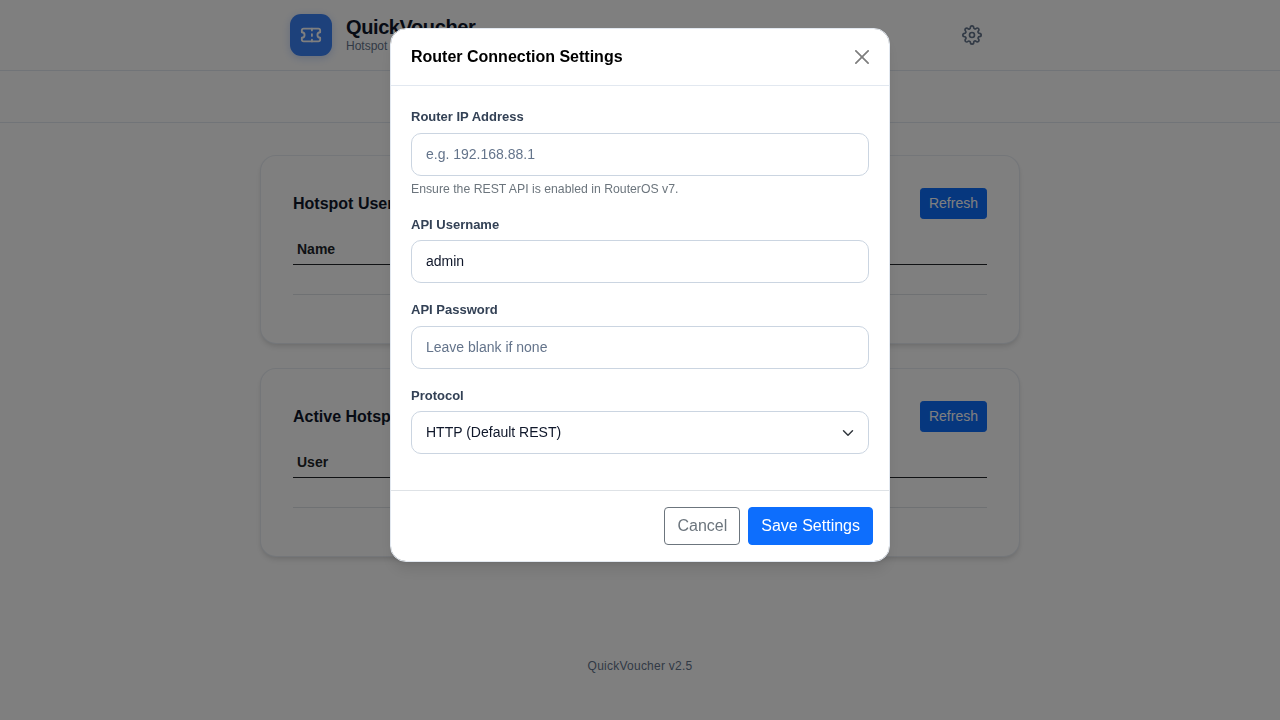
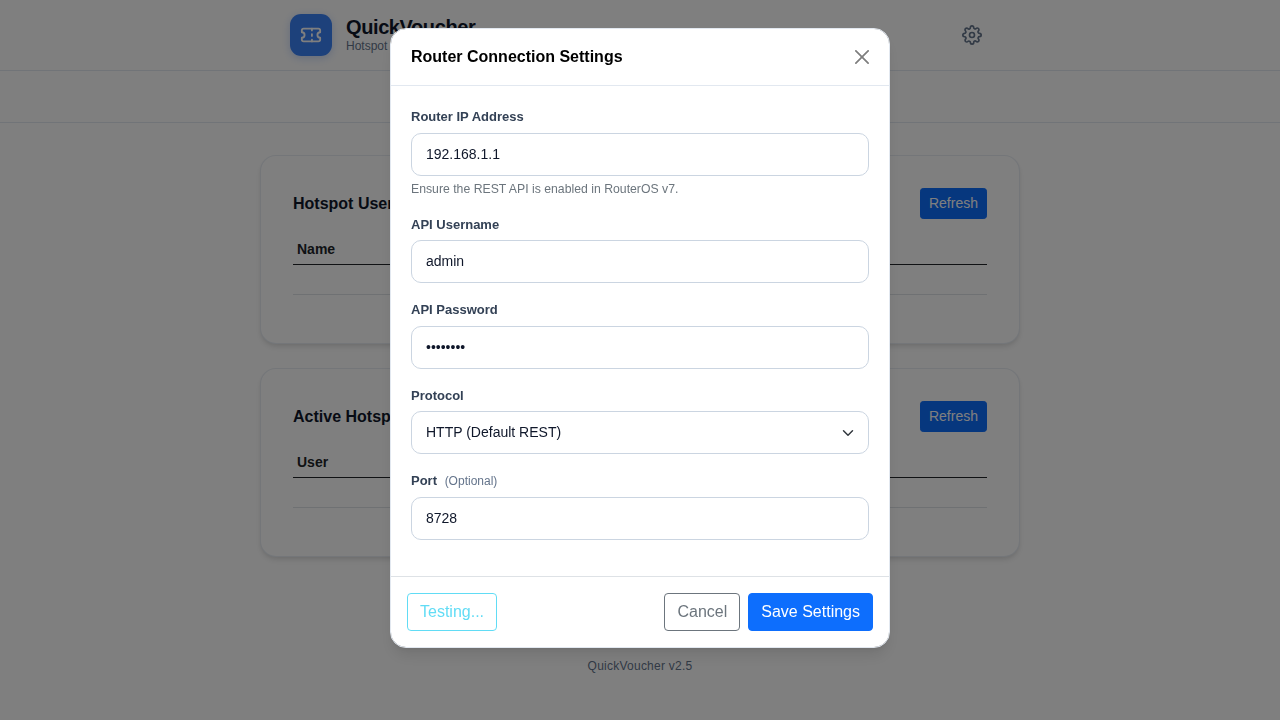
fix: improve mikrotik api error handling and add port config
- Added a "Port" input field to the Router Settings modal allowing for custom ports (useful for API access on non-standard ports).
- Added a "Test Connection" button to the Router Settings modal to verify connectivity right away before saving.
- Improved the Error Handling inside `mikrotikApi` to catch HTTP 401 and 404 with plain English explanations, and correctly identify `fetch` TypeErrors as Network/CORS issues so users know why the request failed.
- Re-built the `MikrotikVoucher-debug.apk` with the latest fixes.

diff --git a/www/js/mikrotik.js b/www/js/mikrotik.js
@@ -9,20 +9,26 @@ function getRouterSettings() {
             ip: '',
             user: 'admin',
             pass: '',
-            proto: 'http'
+            proto: 'http',
+            port: ''
         };
     } catch (e) {
-        return { ip: '', user: 'admin', pass: '', proto: 'http' };
+        return { ip: '', user: 'admin', pass: '', proto: 'http', port: '' };
     }
 }
 
-function saveRouterSettings() {
-    var settings = {
+function getSettingsFromForm() {
+    return {
         ip: document.getElementById('routerIp').value.trim(),
         user: document.getElementById('routerUser').value.trim(),
         pass: document.getElementById('routerPass').value,
-        proto: document.getElementById('routerProto').value
+        proto: document.getElementById('routerProto').value,
+        port: document.getElementById('routerPort').value.trim()
     };
+}
+
+function saveRouterSettings() {
+    var settings = getSettingsFromForm();
     localStorage.setItem('qv_router_settings', JSON.stringify(settings));
 
     var modalEl = document.getElementById('routerSettingsModal');
@@ -53,16 +59,46 @@ function populateRouterSettings() {
     document.getElementById('routerUser').value = settings.user || 'admin';
     document.getElementById('routerPass').value = settings.pass || '';
     document.getElementById('routerProto').value = settings.proto || 'http';
+    document.getElementById('routerPort').value = settings.port || '';
+}
+
+async function testRouterConnection() {
+    var btn = document.getElementById('btnTestConn');
+    var resultDiv = document.getElementById('testConnResult');
+    var settings = getSettingsFromForm();
+
+    if (!settings.ip || !settings.user) {
+        resultDiv.textContent = 'Please enter an IP address and Username.';
+        resultDiv.className = 'mt-2 text-center text-danger';
+        return;
+    }
+
+    btn.disabled = true;
+    btn.textContent = 'Testing...';
+    resultDiv.textContent = '';
+
+    try {
+        await mikrotikApi('/system/identity', 'GET', null, settings);
+        resultDiv.textContent = 'Connection Successful! ✅';
+        resultDiv.className = 'mt-2 text-center text-success';
+    } catch (e) {
+        resultDiv.textContent = 'Connection Failed: ' + e.message;
+        resultDiv.className = 'mt-2 text-center text-danger';
+    } finally {
+        btn.disabled = false;
+        btn.textContent = 'Test Connection';
+    }
 }
 
 // ---- REST API Client ----
-async function mikrotikApi(endpoint, method = 'GET', body = null) {
-    var settings = getRouterSettings();
+async function mikrotikApi(endpoint, method = 'GET', body = null, customSettings = null) {
+    var settings = customSettings || getRouterSettings();
     if (!settings.ip || !settings.user) {
         throw new Error('Router credentials not set.');
     }
 
-    var url = `${settings.proto}://${settings.ip}/rest${endpoint}`;
+    var portPart = settings.port ? ':' + settings.port : '';
+    var url = `${settings.proto}://${settings.ip}${portPart}/rest${endpoint}`;
     var headers = new Headers();
 
     // Basic Auth
@@ -84,8 +120,14 @@ async function mikrotikApi(endpoint, method = 'GET', body = null) {
     try {
         var response = await fetch(url, options);
         if (!response.ok) {
+            if (response.status === 401) {
+                throw new Error('Authentication Failed (401). Check Username/Password.');
+            }
+            if (response.status === 404) {
+                throw new Error('Endpoint not found (404). Ensure REST API is enabled in RouterOS v7.');
+            }
             var errText = await response.text();
-            throw new Error(`API Error ${response.status}: ${errText}`);
+            throw new Error(`API Error ${response.status}: ${errText || 'Unknown Error'}`);
         }
         // DELETE often returns empty body
         if (method === 'DELETE') return true;
@@ -93,6 +135,11 @@ async function mikrotikApi(endpoint, method = 'GET', body = null) {
         return await response.json();
     } catch (error) {
         console.error('Mikrotik API Error:', error);
+
+        if (error.name === 'TypeError' && error.message.includes('Failed to fetch')) {
+            throw new Error(`Network Error: Failed to connect to ${settings.ip}. Check the IP, Port, Protocol (HTTP/HTTPS), or if the REST API is enabled on the router. (CORS issues may also cause this if running outside the Capacitor App).`);
+        }
+
         throw error;
     }
 }

diff --git a/www/index.html b/www/index.html
@@ -309,8 +309,14 @@
                             <option value="https">HTTPS</option>
                         </select>
                     </div>
+                    <div class="mb-3">
+                        <label class="form-label">Port <span class="hint">(Optional)</span></label>
+                        <input type="number" class="form-control" id="routerPort" placeholder="e.g. 80 or 443">
+                    </div>
+                    <div id="testConnResult" class="mt-2 text-center" style="font-size: 13px; font-weight: 600;"></div>
                 </div>
                 <div class="modal-footer">
+                    <button type="button" class="btn btn-outline-info me-auto" id="btnTestConn" onclick="testRouterConnection()">Test Connection</button>
                     <button type="button" class="btn btn-outline-secondary" data-bs-dismiss="modal">Cancel</button>
                     <button type="button" class="btn btn-primary" onclick="saveRouterSettings()">Save Settings</button>
                 </div>
